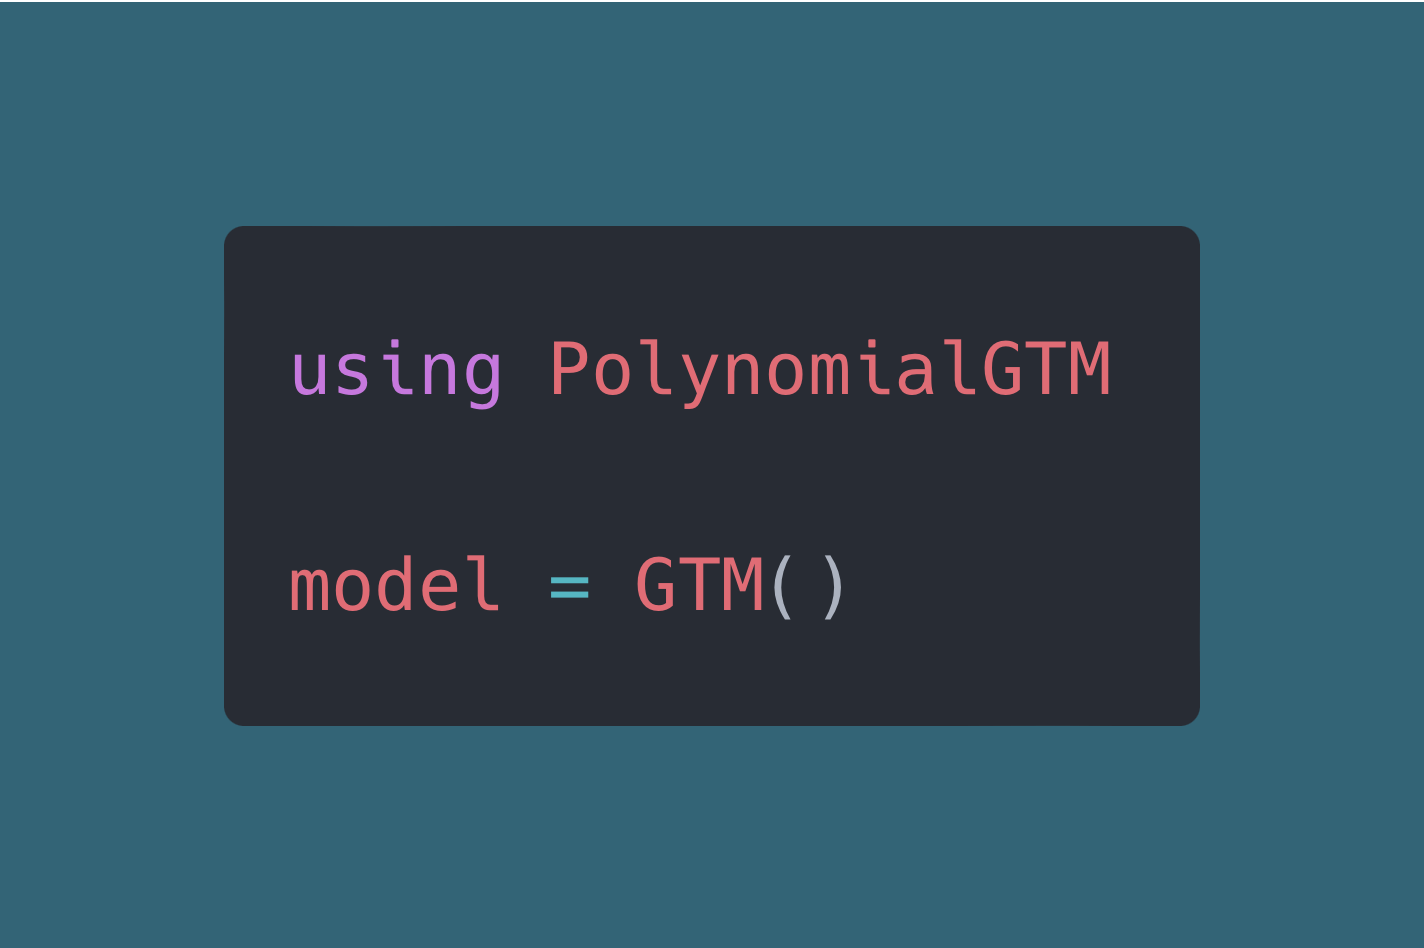
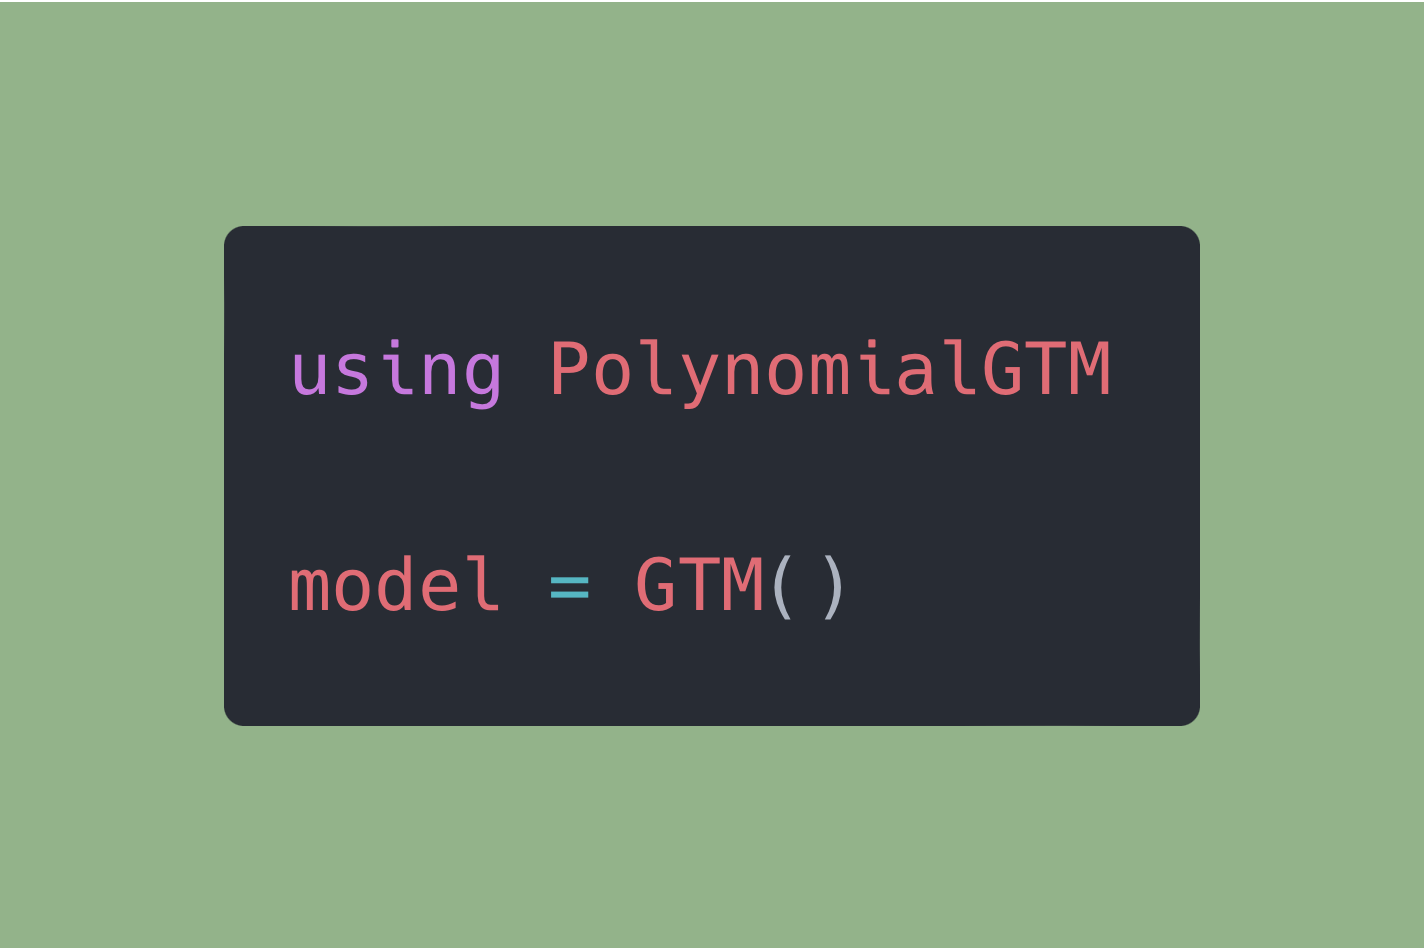
Greeeeeeeeen

diff --git a/blog/subscribe.html b/blog/subscribe.html
@@ -27,7 +27,7 @@
     <div style="position: absolute; left: -5000px;" aria-hidden="true"><input type="text" name="b_d7ac507b745f56f970d3c5514_1b89e6fd67" tabindex="-1" value=""></div>
         <div class="optionalParent">
             <div class="clear foot">
-                <input type="submit" value="Subscribe" name="subscribe" id="mc-embedded-subscribe" class="button" style="background-color: #3c839b;">
+                <input type="submit" value="Subscribe" name="subscribe" id="mc-embedded-subscribe" class="button" style="background-color: #4a6e40;">
             </div>
         </div>
     </div>

diff --git a/formatting/dark.scss b/formatting/dark.scss
@@ -6,7 +6,7 @@ $body-color: rgba(255, 255, 255, 0.90);
 // Code blocks
 $code-block-bg-alpha: -.8;
 
-$link-color: #3c839b;
+$link-color: #629155;
 
 .quarto-grid-item div.post-contents {
     background-color: rgb(10, 15, 10);

diff --git a/formatting/light.scss b/formatting/light.scss
@@ -3,7 +3,7 @@
 /*-- scss:defaults --*/
 $body-bg: white;
 $body-color: black;
-$link-color: #3c839b;
+$link-color: #629155;
 
 .navbar .quarto-color-scheme-toggle:not(.alternate) .bi::before {
     transform: scale(1.25);

diff --git a/formatting/common.scss b/formatting/common.scss
@@ -1,7 +1,7 @@
 /* css styles */
 
 /*-- scss:defaults --*/
-$primary: #114B5F;
+$primary: #4a6e40;
 
 .quarto-grid-item .card-title {
     padding-bottom: 1em;
